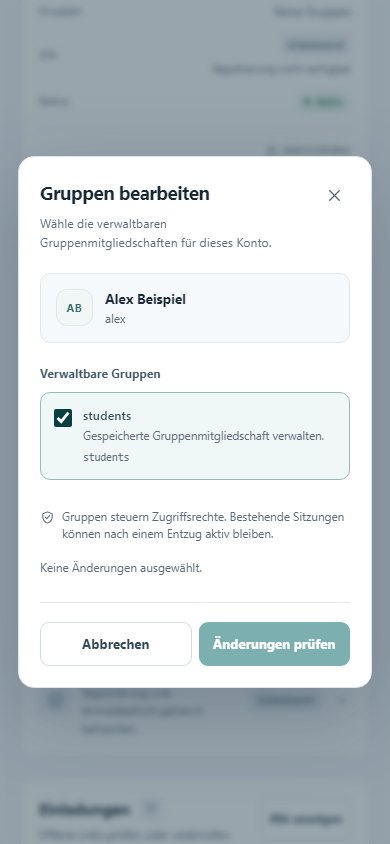
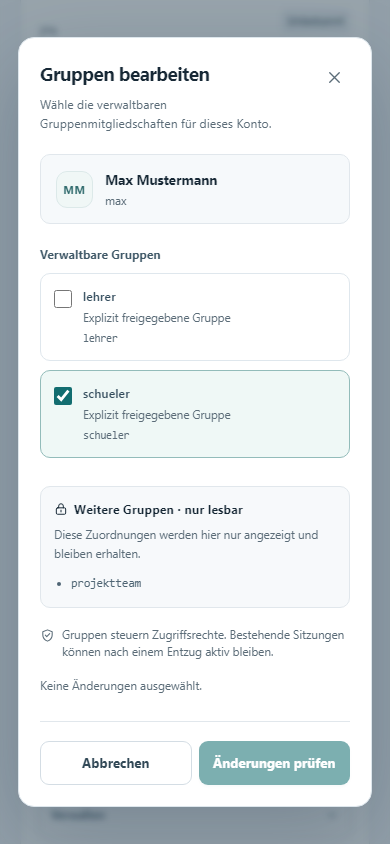
docs: show onboarding features and jellyfin integration

diff --git a/README.md b/README.md
@@ -8,11 +8,22 @@ Mit diesem Projekt sollst du auf deinem eigenen Server eine Anmeldung mit Authel
 
 ## So sieht die Benutzerverwaltung aus
 
-![Benutzerverwaltung mit zwei Beispielkonten](docs/images/benutzerverwaltung-desktop.png)
+![Benutzerverwaltung mit Beispielkonten](docs/images/konten-desktop.png)
 
 ![Gruppenverwaltung auf einem Smartphone](docs/images/gruppen-mobil.png)
 
 *Aufnahmen einer isolierten Vorschau mit erfundenen Testkonten. Sie zeigen eine Entwicklungsfassung; sie sind kein Nachweis einer fertigen Installation.*
+
+## Funktionen der Benutzerverwaltung
+
+Die separate Oberfläche bündelt Funktionen rund um Authelia-Konten:
+
+- **Einladungen:** Administratoren erstellen zeitlich und in der Anzahl der Einlösungen begrenzte Einladungen, sehen deren Status und können sie widerrufen. Berechtigte Gruppen lassen sich vorgeben.
+- **Konto anlegen:** Eingeladene wählen selbst ihren Benutzernamen und ihr Passwort über einen Einladungslink. Der Link ist ein Zugangsschlüssel und gehört nicht in öffentliche Chats oder Screenshots.
+- **Konten und Gruppen:** Administratoren suchen Konten, bearbeiten ausdrücklich freigegebene Gruppen und deaktivieren Konten. Bei einem inzwischen geänderten Gruppenstand wird ein veraltetes Speichern abgewiesen.
+- **Sicherheit:** Die Verwaltungsroute soll über Traefik und Authelia erst nach Anmeldung mit zwei Faktoren erreichbar sein. Die Konfiguration und ihre tatsächlichen Netzwerkgrenzen müssen im eigenen System geprüft werden.
+
+Die Bilder zeigen ausschließlich synthetische Vorschauen einer Entwicklungsfassung. Der aktuelle Stand ist noch nicht zur Installation auf einem öffentlich erreichbaren System freigegeben.
 
 ## Schnellstart: Prompt für deine KI
 
@@ -36,6 +47,7 @@ Frage mich zuerst gesammelt:
 - Habe ich Zugriff auf DNS, Proxmox und die Konsole meines VPS-Anbieters?
 - Welche Dienste laufen bereits und dürfen nicht unterbrochen werden?
 - Möchte ich eine Authenticator-App oder einen Sicherheitsschlüssel nutzen?
+- Möchte ich später Jellyfin mit Authelia als Anmelde-Backend verbinden?
 
 Untersuche vor Änderungen: öffentliche IPv4/IPv6, Provider-Vorgaben, vorhandene
 Netze, Bridges, Routen, Firewall und NAT, belegte Ports, Container-IDs, freien
@@ -79,12 +91,73 @@ Arbeite in überprüfbaren Etappen:
    mit Testkonten; aktiviere sie nicht öffentlich, solange die dokumentierten
    Freigabebedingungen nicht erfüllt und von dir nachgewiesen sind.
 
+Wenn ich Jellyfin nutzen möchte, erkläre das separate Authelia-Plugin und
+die ausdrückliche Gruppenregel. Unterscheide 2FA im Browser von nativen
+Jellyfin-Clients und prüfe, wie bestehende Sitzungen nach Entzug enden.
+
 Lege Geheimnisse direkt auf dem System geschützt an; schreibe sie nie ins
 Repository oder in den Chat. Dokumentiere die gewählten IPs, DNS-Namen,
 Container, Konfigurationsorte, Backups und die Ergebnisse der echten Tests.
 Erkläre mir abschließend, wie ich eine weitere Seite und weitere Benutzer
 hinzufüge, und unterscheide fertige Schritte von offenen Punkten.
 ```
+
+## Funktionsgalerie
+
+Die Aufnahmen zeigen die tatsächliche Oberfläche mit **simulierten API-Antworten und erfundenen Konten**. Es wurden keine gültigen Einladungslinks, Passwörter oder Tokens aufgenommen. Die Bilder sind eine Vorschau und kein Nachweis einer fertig installierten Anlage.
+
+### Konten verwalten
+
+Konten suchen, ihren Status sehen und Aktionen aufrufen.
+
+![Kontenübersicht am Desktop](docs/images/konten-desktop.png)
+
+### Gruppen zuweisen
+
+Nur ausdrücklich freigegebene Gruppen bearbeiten; andere Gruppen bleiben erhalten.
+
+![Gruppen für ein Beispielkonto bearbeiten](docs/images/gruppen-desktop.png)
+
+### Einladung erstellen
+
+Gültigkeitsdauer, Anzahl neuer Konten und freigegebene Gruppen auswählen.
+
+![Dialog zum Erstellen einer Einladung](docs/images/einladung-erstellen-desktop.png)
+
+### Einladungen im Blick behalten
+
+Offene, verbrauchte und widerrufene Einladungen unterscheiden; offene Einladungen können widerrufen werden.
+
+![Liste mit drei Einladungszuständen](docs/images/einladungsstatus-desktop.png)
+
+### Einladung annehmen
+
+Die eingeladene Person erstellt ihr Konto selbst; im Beispiel bleiben die Passwortfelder leer.
+
+![Konto mit fiktivem Namen über Einladung erstellen](docs/images/einladung-annehmen-desktop.png)
+
+<details>
+<summary>Dieselben Ansichten auf dem Smartphone</summary>
+
+![Kontenübersicht auf dem Smartphone](docs/images/konten-mobil.png)
+
+![Gruppen bearbeiten auf dem Smartphone](docs/images/gruppen-mobil.png)
+
+![Einladung erstellen auf dem Smartphone](docs/images/einladung-erstellen-mobil.png)
+
+![Einladungsstatus auf dem Smartphone](docs/images/einladungsstatus-mobil.png)
+
+![Einladung annehmen auf dem Smartphone](docs/images/einladung-annehmen-mobil.png)
+
+</details>
+
+Ein direkter Vorher-/Nachher-Vergleich der nativen Authelia-Kontoseite ist derzeit nicht enthalten: Unsere frühere Anpassung ist versionsgebunden und für die aktuelle Version noch nicht überprüft. Die hier gezeigte Benutzerverwaltung ergänzt Authelia als separate Oberfläche.
+
+## Beispiel: Jellyfin mit Authelia verbinden
+
+Über ein separates [Jellyfin-Authelia-Plugin](https://github.com/nikarh/jellyfin-plugin-authelia) kann Jellyfin Authelia als Anmelde- und Autorisierungs-Backend verwenden. Eine Gruppe wie `jellyfin-users` kann in einer **ausdrücklichen Authelia-Zugriffsregel** festlegen, wer sich bei Jellyfin neu anmelden darf. Der Gruppenname allein schaltet keine Funktion frei; Plugin, Authelia-Regel und die in dieser Verwaltung erlaubten Gruppen müssen zusammenpassen. Ein [Fork des Plugins](https://github.com/WaldemarFech/jellyfin-plugin-authelia) ist ebenfalls öffentlich; seine Aktualität und Kompatibilität müssen vor Einsatz geprüft werden.
+
+Wichtig: Das Plugin beschreibt für native Jellyfin-Clients Benutzername und Passwort **ohne 2FA**. Eine getrennte Browser-Route kann über Traefik und Authelia anders geschützt werden. Bereits ausgestellte Jellyfin-Sitzungen oder Tokens können nach einem Gruppenentzug oder einer Kontosperre weiter gültig sein; sie müssen gegebenenfalls in Jellyfin separat beendet werden. Prüfe beide Wege und die tatsächlichen Regeln in deinem eigenen System.
 
 ## Was ist hier enthalten?
 
